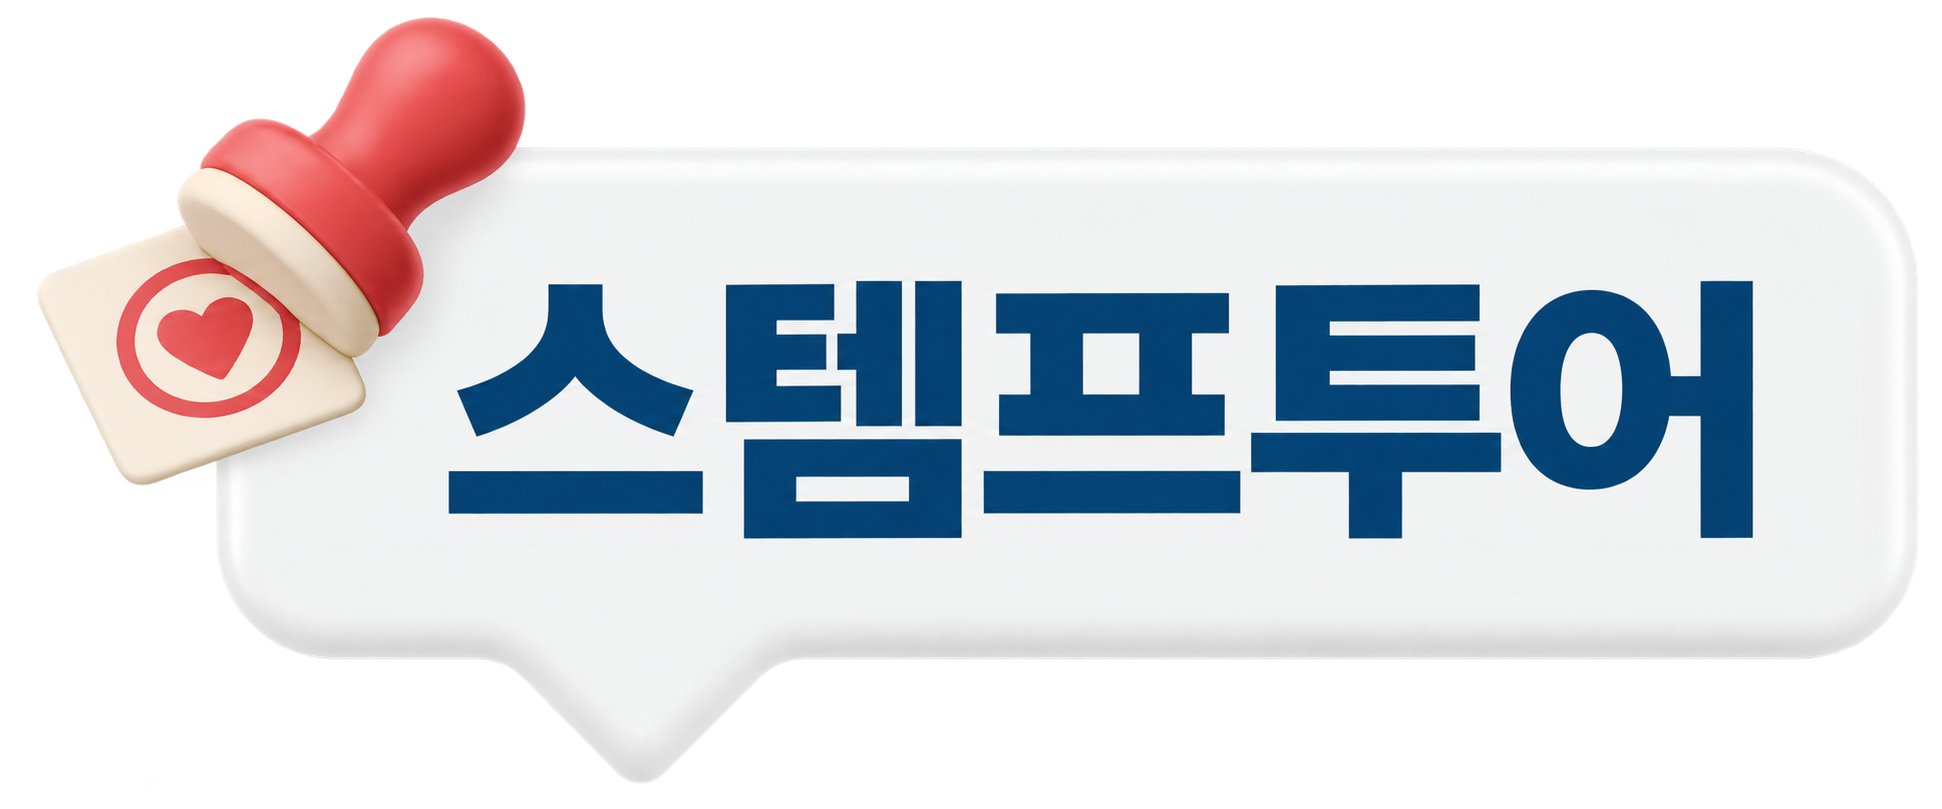
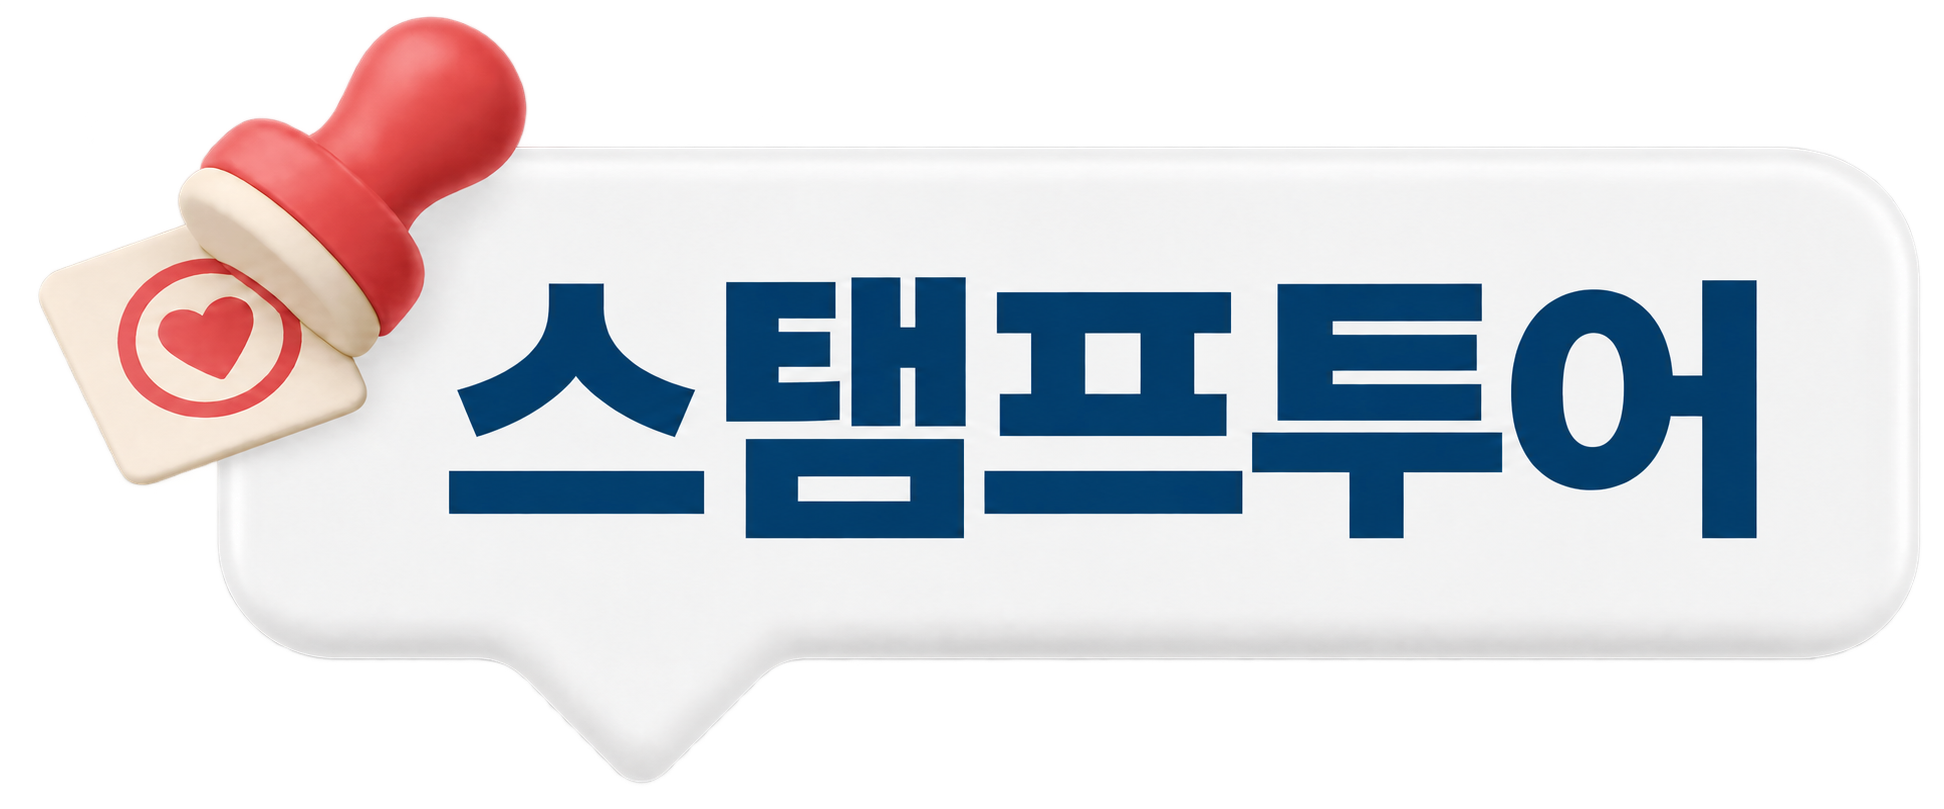
Update timetable i18n, stamp tour, participate order, and title assets.

diff --git a/intro/timetable.html b/intro/timetable.html
@@ -3,7 +3,7 @@
 <head>
   <meta charset="UTF-8">
   <meta name="viewport" content="width=device-width, initial-scale=1.0">
-  <title>타임테이블 | 2026 서울관광 ON 페스타</title>
+  <title>행사 일정 | 2026 서울관광 ON 페스타</title>
   <link rel="stylesheet" href="../css/common.css">
   <link rel="stylesheet" href="../css/sub.css">
 </head>
@@ -21,7 +21,7 @@
         <div id="site-header"></div>
       </div>
       <div class="sub-hero__inner">
-        <h1 class="sub-hero__title" id="sub-title">타임테이블</h1>
+        <h1 class="sub-hero__title" id="sub-title">행사 일정</h1>
         <div id="sub-breadcrumb"></div>
       </div>
     </div>
@@ -29,7 +29,7 @@
   <main id="main" class="page-main">
     <div class="page-inner">
       <header class="sub-visual-head">
-        <h2 class="sr-only" data-i18n="sub.timetable">타임테이블</h2>
+        <h2 class="sr-only" data-i18n="sub.timetable">행사 일정</h2>
         <img
           class="sub-visual-head__tit"
           src="../img/timetable-tit.png"
@@ -53,35 +53,35 @@
             <tbody>
               <tr>
                 <th scope="row" class="timetable-table__time">13:00~13:30</th>
-                <td class="timetable-table__cell">LED를 활용한 참여 이벤트</td>
+                <td class="timetable-table__cell" data-i18n="timetable.c1300_fri">LED를 활용한 참여 이벤트</td>
                 <td class="timetable-table__cell">
-                  <span class="timetable-cell__main">민요&amp;사물놀이 공연</span>
-                  <span class="timetable-cell__sub">연희점추리</span>
+                  <span class="timetable-cell__main" data-i18n="timetable.c1300_sat_main">민요&amp;사물놀이 공연</span>
+                  <span class="timetable-cell__sub" data-i18n="timetable.c1300_sat_sub">연희점추리</span>
                 </td>
               </tr>
               <tr>
                 <th scope="row" class="timetable-table__time">14:00~14:30</th>
                 <td class="timetable-table__cell">
-                  <span class="timetable-cell__main">타악 공연</span>
-                  <span class="timetable-cell__sub">화려</span>
+                  <span class="timetable-cell__main" data-i18n="timetable.c1400_fri_main">타악 공연</span>
+                  <span class="timetable-cell__sub" data-i18n="timetable.c1400_fri_sub">화려</span>
                 </td>
                 <td class="timetable-table__cell">
-                  <span class="timetable-cell__main">조선 마술패</span>
-                  <span class="timetable-cell__sub">마술극단 다채</span>
+                  <span class="timetable-cell__main" data-i18n="timetable.c1400_sat_main">조선 마술패</span>
+                  <span class="timetable-cell__sub" data-i18n="timetable.c1400_sat_sub">마술극단 다채</span>
                 </td>
               </tr>
               <tr>
                 <th scope="row" class="timetable-table__time">15:00~15:30</th>
-                <td class="timetable-table__cell">남산봉수대 전통 공연</td>
-                <td class="timetable-table__cell">남산봉수대 전통 공연</td>
+                <td class="timetable-table__cell" data-i18n="timetable.c1500">남산봉수대 전통 공연</td>
+                <td class="timetable-table__cell" data-i18n="timetable.c1500">남산봉수대 전통 공연</td>
               </tr>
               <tr>
                 <th scope="row" class="timetable-table__time">16:00~16:30</th>
                 <td class="timetable-table__cell" rowspan="2">
-                  <span class="timetable-cell__main">사자탈공대 백수지왕</span>
-                  <span class="timetable-cell__sub">연희점추리</span>
+                  <span class="timetable-cell__main" data-i18n="timetable.c1600_fri_main">사자탈공대 백수지왕</span>
+                  <span class="timetable-cell__sub" data-i18n="timetable.c1600_fri_sub">연희점추리</span>
                 </td>
-                <td class="timetable-table__cell">태권도 공연</td>
+                <td class="timetable-table__cell" data-i18n="timetable.c1600_sat">태권도 공연</td>
               </tr>
               <tr>
                 <th scope="row" class="timetable-table__time">16:30~17:00</th>
@@ -90,47 +90,47 @@
               <tr>
                 <th scope="row" class="timetable-table__time">17:00~17:30</th>
                 <td class="timetable-table__cell">
-                  <span class="timetable-cell__main">남산리듬챌린지</span>
-                  <span class="timetable-cell__sub">연희점추리</span>
+                  <span class="timetable-cell__main" data-i18n="timetable.c1700_fri_main">남산리듬챌린지</span>
+                  <span class="timetable-cell__sub" data-i18n="timetable.c1700_fri_sub">연희점추리</span>
                 </td>
                 <td class="timetable-table__cell">
-                  <span class="timetable-cell__main">K-pop 공연</span>
-                  <span class="timetable-cell__sub">원밀리언 [아마존]</span>
+                  <span class="timetable-cell__main" data-i18n="timetable.c1700_sat_main">K-pop 공연</span>
+                  <span class="timetable-cell__sub" data-i18n="timetable.c1700_sat_sub">원밀리언 [아마존]</span>
                 </td>
               </tr>
               <tr>
                 <th scope="row" class="timetable-table__time">17:30~18:00</th>
                 <td class="timetable-table__cell" data-i18n="timetable.opening">개막식</td>
                 <td class="timetable-table__cell">
-                  <span class="timetable-cell__main">K-pop 클래스</span>
-                  <span class="timetable-cell__sub">원밀리언 [아마존]</span>
+                  <span class="timetable-cell__main" data-i18n="timetable.c1730_sat_main">K-pop 클래스</span>
+                  <span class="timetable-cell__sub" data-i18n="timetable.c1730_sat_sub">원밀리언 [아마존]</span>
                 </td>
               </tr>
               <tr>
                 <th scope="row" class="timetable-table__time">18:00~18:30</th>
                 <td class="timetable-table__cell">
-                  <span class="timetable-cell__main">클래식 가야금</span>
-                  <span class="timetable-cell__sub">가온소리</span>
+                  <span class="timetable-cell__main" data-i18n="timetable.c1800_fri_main">클래식 가야금</span>
+                  <span class="timetable-cell__sub" data-i18n="timetable.c1800_fri_sub">가온소리</span>
                 </td>
                 <td class="timetable-table__cell timetable-table__cell--muted"></td>
               </tr>
               <tr>
                 <th scope="row" class="timetable-table__time">18:30~19:00</th>
                 <td class="timetable-table__cell">
-                  <span class="timetable-cell__main">가수 공연</span>
-                  <span class="timetable-cell__sub">민경훈</span>
+                  <span class="timetable-cell__main" data-i18n="timetable.c1830_fri_main">가수 공연</span>
+                  <span class="timetable-cell__sub" data-i18n="timetable.c1830_fri_sub">민경훈</span>
                 </td>
                 <td class="timetable-table__cell">
-                  <span class="timetable-cell__main">국악 비보이 공연</span>
-                  <span class="timetable-cell__sub">에스플라바</span>
+                  <span class="timetable-cell__main" data-i18n="timetable.c1830_sat_main">국악 비보이 공연</span>
+                  <span class="timetable-cell__sub" data-i18n="timetable.c1830_sat_sub">에스플라바</span>
                 </td>
               </tr>
               <tr>
                 <th scope="row" class="timetable-table__time">19:00~19:30</th>
                 <td class="timetable-table__cell timetable-table__cell--empty" aria-hidden="true"></td>
                 <td class="timetable-table__cell">
-                  <span class="timetable-cell__main">가수 공연</span>
-                  <span class="timetable-cell__sub">[밴드]딕펑스</span>
+                  <span class="timetable-cell__main" data-i18n="timetable.c1900_sat_main">가수 공연</span>
+                  <span class="timetable-cell__sub" data-i18n="timetable.c1900_sat_sub">[밴드]딕펑스</span>
                 </td>
               </tr>
             </tbody>

diff --git a/js/i18n.js b/js/i18n.js
@@ -12,7 +12,7 @@
         directions: '오시는길',
       },
       sub: {
-        timetable: '타임테이블',
+        timetable: '행사 일정',
         venue: '축제장소',
         notice: '공지사항',
         faq: 'FAQ',
@@ -23,7 +23,7 @@
         experience: '체험존',
         kPlay: 'K-놀이존',
         soulSpot: '소울스팟',
-        stampTour: '스템프투어',
+        stampTour: '스탬프 투어',
         sponsor: '파트너',
       },
       breadcrumb: {
@@ -55,7 +55,7 @@
         p4: '올가을, 남산에서<br><span class="overview-mark overview-mark--pink">서울의 즐거움을 ON</span> 하세요!',
       },
       timetable: {
-        titleAlt: '타임테이블',
+        titleAlt: '행사 일정',
         stage: '무대',
         time: '시간',
         day1: '10.02(금)',
@@ -66,6 +66,31 @@
         opening: '개막식',
         rehearsal: '공연 리허설 진행',
         kpopRehearsal: 'K-pop 리허설',
+        c1300_fri: 'LED를 활용한 참여 이벤트',
+        c1300_sat_main: '민요&사물놀이 공연',
+        c1300_sat_sub: '연희점추리',
+        c1400_fri_main: '타악 공연',
+        c1400_fri_sub: '화려',
+        c1400_sat_main: '조선 마술패',
+        c1400_sat_sub: '마술극단 다채',
+        c1500: '남산봉수대 전통 공연',
+        c1600_fri_main: '사자탈공대 백수지왕',
+        c1600_fri_sub: '연희점추리',
+        c1600_sat: '태권도 공연',
+        c1700_fri_main: '남산리듬챌린지',
+        c1700_fri_sub: '연희점추리',
+        c1700_sat_main: 'K-pop 공연',
+        c1700_sat_sub: '원밀리언 [아마존]',
+        c1730_sat_main: 'K-pop 클래스',
+        c1730_sat_sub: '원밀리언 [아마존]',
+        c1800_fri_main: '클래식 가야금',
+        c1800_fri_sub: '가온소리',
+        c1830_fri_main: '가수 공연',
+        c1830_fri_sub: '민경훈',
+        c1830_sat_main: '국악 비보이 공연',
+        c1830_sat_sub: '에스플라바',
+        c1900_sat_main: '가수 공연',
+        c1900_sat_sub: '[밴드]딕펑스',
       },
       directions: {
         titleAlt: '오시는길',
@@ -117,7 +142,7 @@
         kpopLead: '남산에서 즐기는 단 하루의 특별한 K-POP 댄스 클래스!',
         kpopDesc:
           '원밀리언 AMAZON 팀의 퍼포먼스를 보고, 직접 K-POP 안무를 배워보세요.\nATEEZ(에이티즈)의 《BAD》 안무를 함께 배우고 완성하는 특별한 시간!\n처음이어도 누구나 함께 즐기고 따라 할 수 있습니다.\n보고, 배우고, 함께 춤추며 K-POP의 에너지를 직접 느껴보세요!',
-        kpopDate: '2026년 10월 3일(토) 17:00~18:00',
+        kpopDate: '2026년 10월 3일(토) 17:30~18:00',
         kpopPlace: '남산 팔각정 메인 무대',
         rhythmTitle: '남산 리듬 챌린지',
         rhythmLead: '남산에서 펼쳐지는 신명나는 탈춤 한판!',
@@ -169,7 +194,7 @@
         photoAlt: '남산 AR 체험 부스와 AR 포토존에서 스마트폰으로 남산타워 AR을 체험하는 모습',
       },
       stampTourPage: {
-        titleAlt: '스템프투어',
+        titleAlt: '스탬프 투어',
         lead: '스탬프 투어 완료 이벤트',
         desc: '남산 곳곳의 체험을 즐기고 스탬프를 모아 기념품까지 받아보세요!\n행사 리플릿을 수령한 뒤 체험존·스페셜 체험존 등 부스를 방문해 프로그램에 참여하고 스탬프를 획득하세요. 스탬프 투어를 완료하면 특별한 행사 기념품을 받을 수 있는 참여형 이벤트입니다.',
         photoAlt: '2026 서울관광 ON 페스타 스탬프 투어 리플릿 안내',
@@ -319,7 +344,7 @@
         directions: 'Location',
       },
       sub: {
-        timetable: 'Timetable',
+        timetable: 'Event Schedule',
         venue: 'Venue',
         notice: 'Notice',
         faq: 'FAQ',
@@ -362,7 +387,7 @@
         p4: 'This fall at Namsan,<br><span class="overview-mark overview-mark--pink">turn ON the joy of Seoul</span>!',
       },
       timetable: {
-        titleAlt: 'Timetable',
+        titleAlt: 'Event Schedule',
         stage: 'Main Stage',
         time: 'Time',
         day1: 'Oct 2 (Fri)',
@@ -373,6 +398,31 @@
         opening: 'Opening ceremony',
         rehearsal: 'Performance rehearsal',
         kpopRehearsal: 'K-pop rehearsal',
+        c1300_fri: 'Interactive LED participation event',
+        c1300_sat_main: 'Folk songs & samulnori performance',
+        c1300_sat_sub: 'Yeonhee Jeomchuri',
+        c1400_fri_main: 'Percussion performance',
+        c1400_fri_sub: 'Hwarang',
+        c1400_sat_main: 'Joseon magic troupe',
+        c1400_sat_sub: 'Magic Troupe Dachae',
+        c1500: 'Namsan beacon-fire traditional performance',
+        c1600_fri_main: 'Lion mask troupe Baeksujiwang',
+        c1600_fri_sub: 'Yeonhee Jeomchuri',
+        c1600_sat: 'Taekwondo performance',
+        c1700_fri_main: 'Namsan Rhythm Challenge',
+        c1700_fri_sub: 'Yeonhee Jeomchuri',
+        c1700_sat_main: 'K-pop performance',
+        c1700_sat_sub: 'One Million [Amazon]',
+        c1730_sat_main: 'K-pop class',
+        c1730_sat_sub: 'One Million [Amazon]',
+        c1800_fri_main: 'Classic gayageum',
+        c1800_fri_sub: 'Gaonsori',
+        c1830_fri_main: 'Singer performance',
+        c1830_fri_sub: 'Min Kyung-hoon',
+        c1830_sat_main: 'Korean traditional B-boy show',
+        c1830_sat_sub: 'S.P.L.A.V.A',
+        c1900_sat_main: 'Singer performance',
+        c1900_sat_sub: 'The Dickpunks',
       },
       directions: {
         titleAlt: 'Location',
@@ -424,7 +474,7 @@
         kpopLead: 'A one-day K-POP dance class at Namsan!',
         kpopDesc:
           'Watch a performance by ONE MILLION AMAZON, then learn K-POP choreography yourself.\nA special session to learn and perform ATEEZ’s “BAD” together!\nFirst-timers welcome—everyone can join in and follow along.\nWatch, learn, dance together, and feel the energy of K-POP!',
-        kpopDate: 'Sat, Oct 3, 2026 · 17:00–18:00',
+        kpopDate: 'Sat, Oct 3, 2026 · 17:30–18:00',
         kpopPlace: 'Main stage, Namsan Palgakjeong Pavilion',
         rhythmTitle: 'Namsan Rhythm Challenge',
         rhythmLead: 'A lively mask dance session at Namsan!',

diff --git a/program/stamp-tour.html b/program/stamp-tour.html
@@ -3,7 +3,7 @@
 <head>
   <meta charset="UTF-8">
   <meta name="viewport" content="width=device-width, initial-scale=1.0">
-  <title>스템프투어 | 2026 서울관광 ON 페스타</title>
+  <title>스탬프 투어 | 2026 서울관광 ON 페스타</title>
   <link rel="stylesheet" href="../css/common.css">
   <link rel="stylesheet" href="../css/sub.css">
 </head>
@@ -19,7 +19,7 @@
       <div class="sub-hero__bg" aria-hidden="true"><img src="../img/sub.jpg" alt=""></div>
       <div class="sub-hero__header"><div id="site-header"></div></div>
       <div class="sub-hero__inner">
-        <h1 class="sub-hero__title" id="sub-title">스템프투어</h1>
+        <h1 class="sub-hero__title" id="sub-title">스탬프 투어</h1>
         <div id="sub-breadcrumb"></div>
       </div>
     </div>
@@ -27,7 +27,7 @@
   <main id="main" class="page-main">
     <div class="page-inner">
       <header class="sub-visual-head">
-        <h2 class="sr-only" data-i18n="sub.stampTour">스템프투어</h2>
+        <h2 class="sr-only" data-i18n="sub.stampTour">스탬프 투어</h2>
         <img
           class="sub-visual-head__tit"
           src="../img/stamp-tour.png"
@@ -41,7 +41,7 @@
         <h3 class="sr-only" id="stamp-tour-heading" data-i18n="stampTourPage.lead">스탬프 투어 완료 이벤트</h3>
         <figure class="program-zone-item__photo">
           <img
-            src="../img/program/stamp-tour/stamptour.png"
+            src="../img/program/stamp-tour/StampTour.png"
             alt=""
             data-i18n-alt="stampTourPage.photoAlt"
             width="3368"
